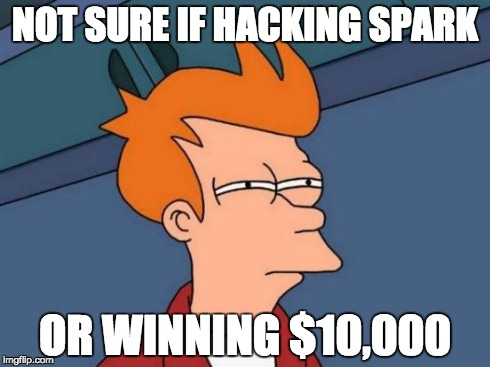
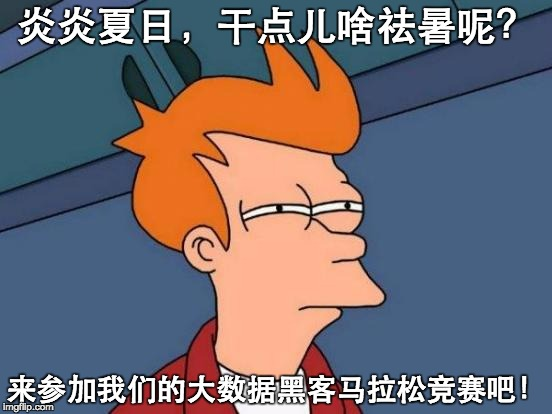
update fry image

Changed region(s): [[0.0, 0.8392, 0.9796, 1.0], [0.0, 0.0, 0.9796, 0.1199]]

diff --git a/introduction/hackathon/index.html b/introduction/hackathon/index.html
@@ -239,8 +239,8 @@ var jiathis_config={
 <p>Apache Spark作为目前大数据社区最流行的开源项目，受到大数据开发人员的高度关注。我们希望通过连续48小时的竞赛，帮助所有参赛选手学习或者进一步加深对大数据Spark了解，深刻体验Spark对未来大数据发展的重要性。我们的大数据专家将会亲自帮助和指导参赛人员，分享第一手的大数据开发经验。</p>
 <p><strong>奖  项</strong></p>
 <ul>
-<li>第一名的团队: <strong>待定</strong></li>
-<li>第二名的团队: <strong>待定</strong></li>
+<li>第一名的团队: <strong>（奖品待定）</strong></li>
+<li>第二名的团队: <strong>（奖品待定）</strong></li>
 </ul>
 <p><strong>参赛规则</strong></p>
 <ul>

diff --git a/index.html b/index.html
@@ -365,5 +365,5 @@ var jiathis_config={
 
 <!--
 MkDocs version : 0.14.0
-Build Date UTC : 2015-07-13 16:47:03.030303
+Build Date UTC : 2015-07-13 17:57:32.957141
 -->
